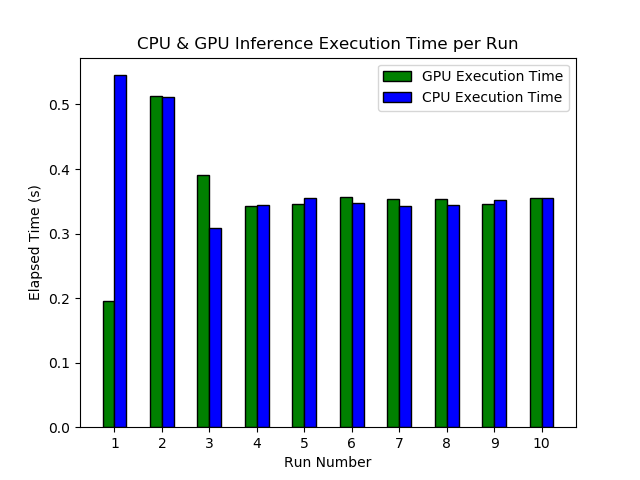
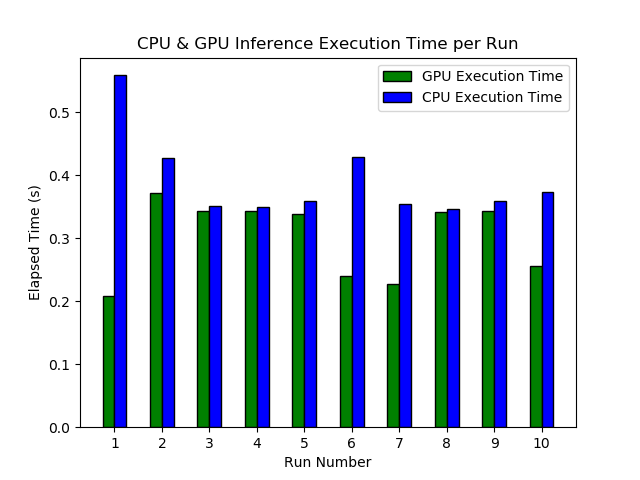
created new graphs for inference on pretrained model

diff --git a/andy/customInference/ImageClassification.py b/andy/customInference/ImageClassification.py
@@ -136,10 +136,10 @@ def graph():
     powerLegend
     powerSave
 
-    averageCPUTime = sum(cpuTime) / len(cpuTime)
+    averageCPUTime = round(sum(cpuTime) / len(cpuTime), 5)
     averageCPUPower = sum(cpuPower) / len(cpuPower)
 
-    averageGPUTime = sum(gpuTime) / len(gpuTime)
+    averageGPUTime = round(sum(gpuTime) / len(gpuTime), 5)
     averageGPUPower = sum(gpuPower) / len(gpuPower)
 
     print("Average Execution Time for CPU: " + str(averageCPUTime) + " seconds.")
